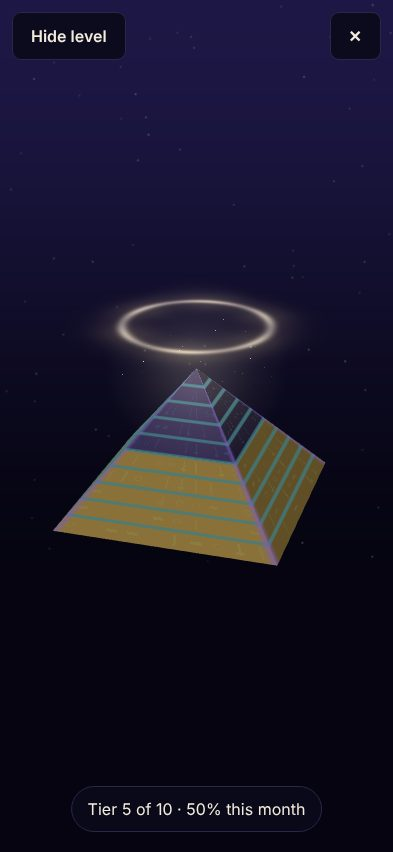
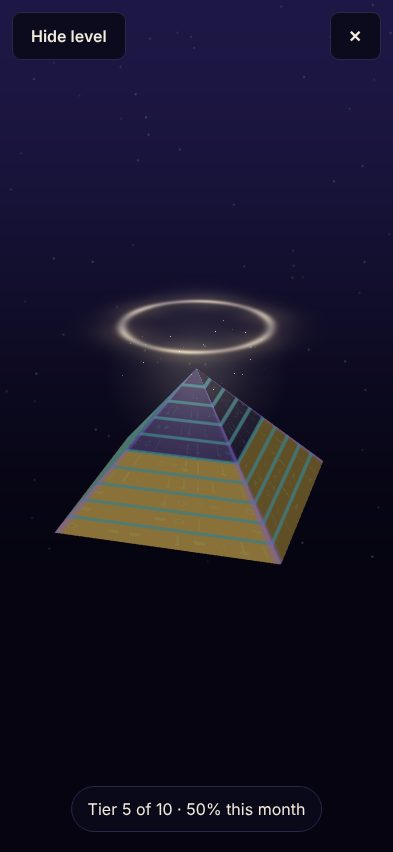
Record live verification of the Kemet base, Forge turntable and Terminal katakana
Claude-Session: https://claude.ai/code/session_01CYDVdR3vLihRKRwozUR3TD

diff --git a/ACCEPTANCE.md b/ACCEPTANCE.md
@@ -285,7 +285,7 @@ Per `docs/FOLLOWUP_PROMPT_KEMET_BASE_FORGE_SPIN_TERMINAL_KATAKANA.md`. Each chan
 | 126 | CPU re-measured for Kemet, Forge, Terminal | `npm run skins`: app JS +0.9% each, 30 fps, all PASS | ✅ headless / ⚠ device |
 | 127 | Full acceptance suite green | 262 passing | ✅ |
 | 128 | Footprint < 50 MB, no font files | 3.499 MB total; system font stacks only. Noto CJK was installed as an OS package on the test machine for screenshots, not in the repo | ✅ |
-| 129 | Pushed, cache bumped, live re-verified | `reptrack-shell-v6`. See `DEPLOYMENT.md` → "Live verification" | see `DEPLOYMENT.md` |
+| 129 | Pushed, cache bumped, live re-verified | Live files byte-identical to `f6f81a5`, SW `/reptrack/` with `reptrack-shell-v6`; on the live site the Kemet base reads correctly from below, Kemet +0.734 / Forge −0.734 rad/s, Terminal on katakana, no console errors. `DEPLOYMENT.md` → "Live verification" | ✅ |
 | 130 | `MANUAL_TEST.md` on-phone checks for all three | Check 2 → "Three more quick looks" | ✅ |
 
 ## Build constraints

diff --git a/DEPLOYMENT.md b/DEPLOYMENT.md
@@ -157,3 +157,12 @@ host. This session's environment now allows it, so the live files themselves wer
 - On the live site, the same scripted Forge drag that changed **0.11%** of the frame before
   the fix now changes **4.85%**. Level 6 shows two large plates per side. No console errors.
 - `docs/screenshots/live/` re-captured from the deployment, including the Forge plate set.
+
+### Kemet base / Forge turntable / Terminal katakana — commit `f6f81a5`, 2026-11-09
+
+- Live files byte-identical to the commit; service worker scoped to `/reptrack/` with the
+  single cache `reptrack-shell-v6`.
+- On the live site: Kemet's base faces the camera from below with the inscription reading
+  left to right and upright; at full intensity Kemet turns **+0.734 rad/s** and Forge
+  **−0.734 rad/s** (opposite, same capped speed); Terminal is on the `katakana` set. No
+  console errors. `docs/screenshots/live/` re-captured.
